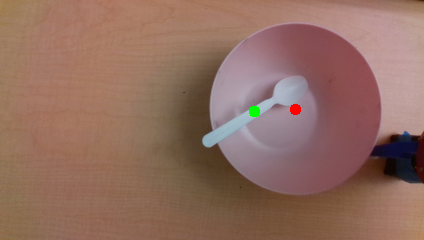
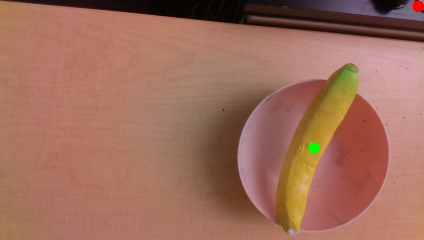
finally working lets go git add .!

diff --git a/src/move_arm/src/ik_example.py b/src/move_arm/src/ik_example.py
@@ -13,8 +13,8 @@ import sys
 import tf.transformations as tf
 
 
-FOOD_LOC = (0.705, -0.264, 0.383)
-UTENSIL_LOC = (0.705, -0.464, 0.383)
+FOOD_LOC = (0.691, -0.1, 0.383)
+UTENSIL_LOC = (0.691, -0.324, 0.383)
 class IKExample():
 
     def __init__(self):
@@ -207,7 +207,7 @@ def main():
         # request.ik_request.pose_stamped.pose.position.x = 0.671
         # request.ik_request.pose_stamped.pose.position.y = 0.214
         # request.ik_request.pose_stamped.pose.position.z = -0.118   
-        request.ik_request.pose_stamped.pose.position.x = 0.705 
+        request.ik_request.pose_stamped.pose.position.x = 0.691 
         request.ik_request.pose_stamped.pose.position.y = 0.159
         request.ik_request.pose_stamped.pose.position.z = 0.383    
         request.ik_request.pose_stamped.pose.orientation.x = 0.0
@@ -364,7 +364,7 @@ def main():
             "right_j1": current_angles["right_j1"],
             "right_j2": current_angles["right_j2"],
             "right_j3": current_angles["right_j3"],
-            "right_j4": current_angles["right_j4"] - 1,
+            "right_j4": current_angles["right_j4"] - 1.2,
             "right_j5": current_angles["right_j5"],
             "right_j6": current_angles["right_j6"],
         }

diff --git a/src/code/src/robot_code.py b/src/code/src/robot_code.py
@@ -123,6 +123,7 @@ class RobotCode:
                     )
 
                     pilimg.save('plottedcentroid1.png')
+                    
                     print("img saved!")
             # If we have both color and depth images, process them
             if self.cv_depth_image is not None:
@@ -172,6 +173,7 @@ class RobotCode:
                     print("Erroneous goal point, not publishing - Is the cup too close to the camera?")
                 else:
                     print("Publishing goal point: ", X_base, Y_base, Z_base)
+                    print('detected object ', self.obj_name)
                     # Publish the transformed point
                     self.point_pub.publish(Point(X_base, Y_base, Z_base))
                     self.obj_pub.publish(DISH_DCT[self.obj_name])
